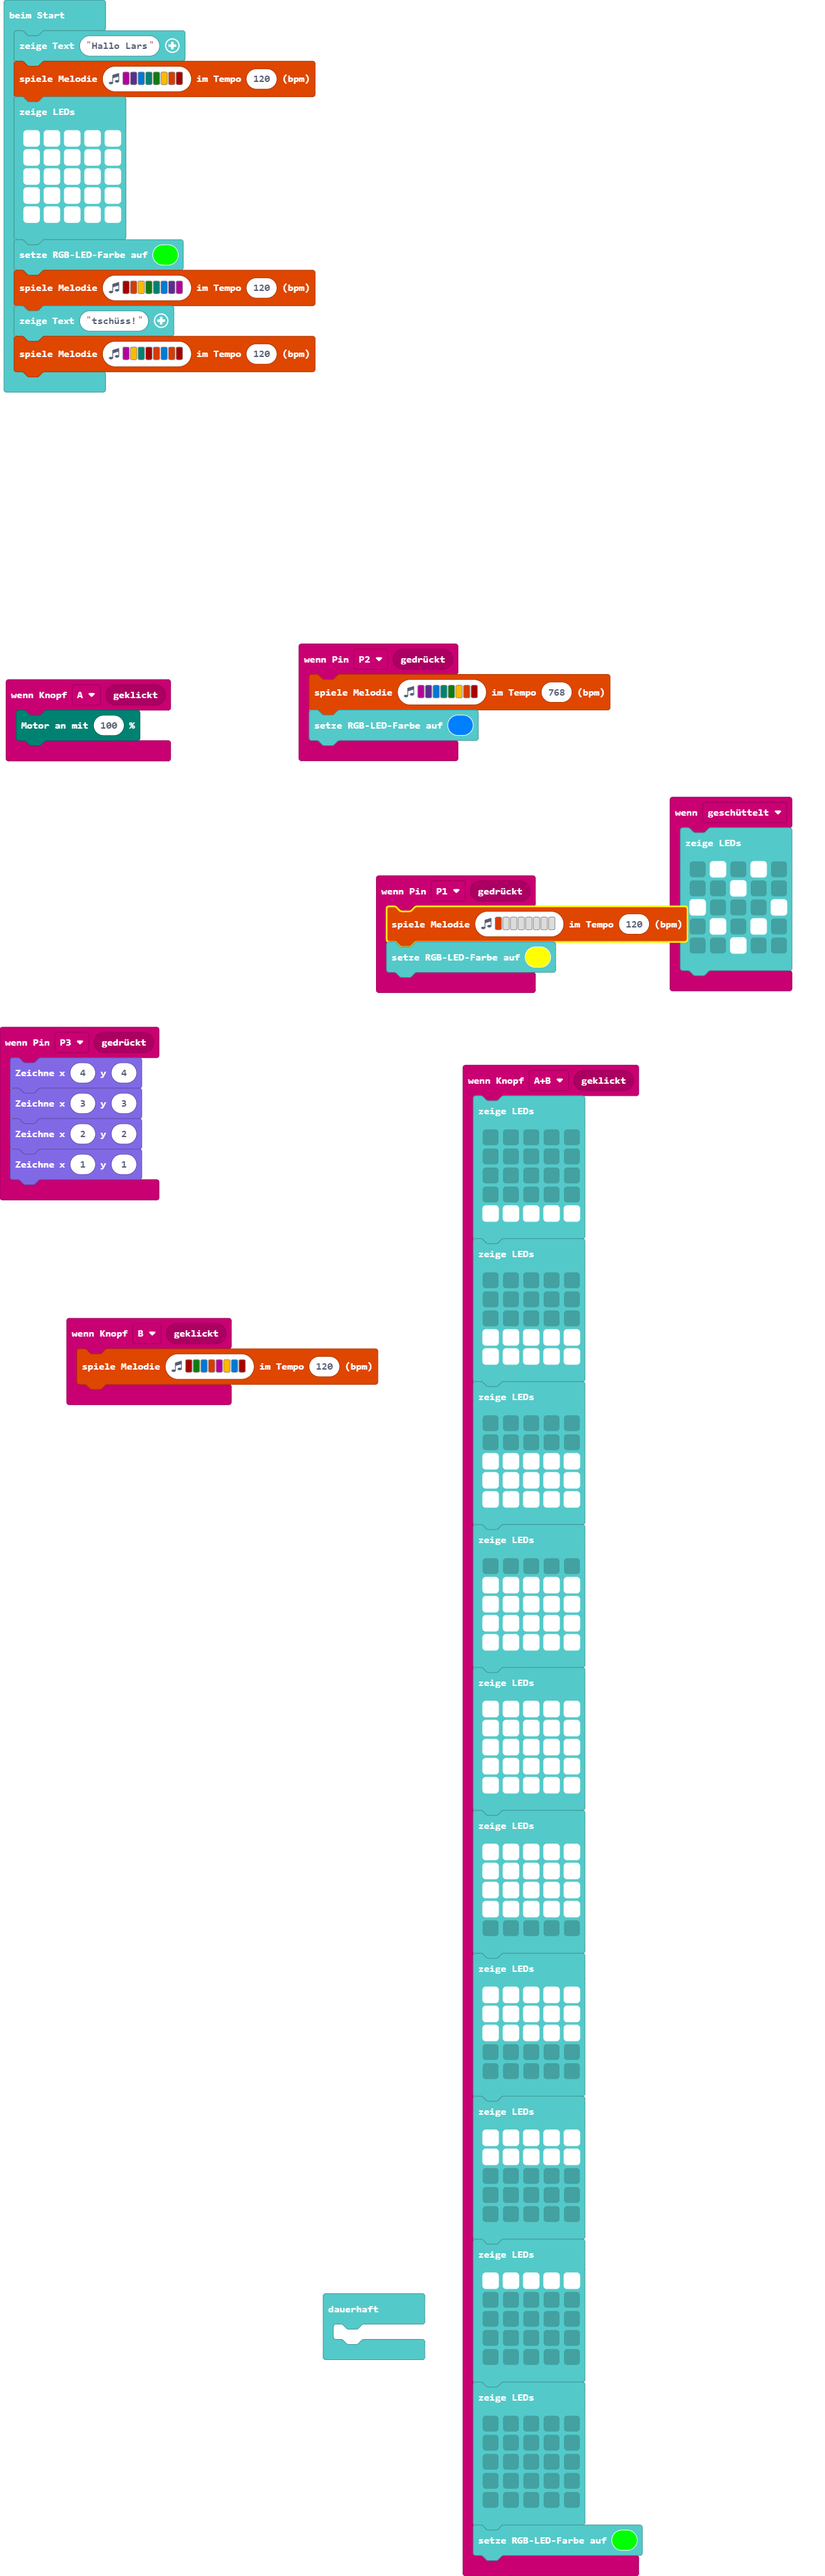
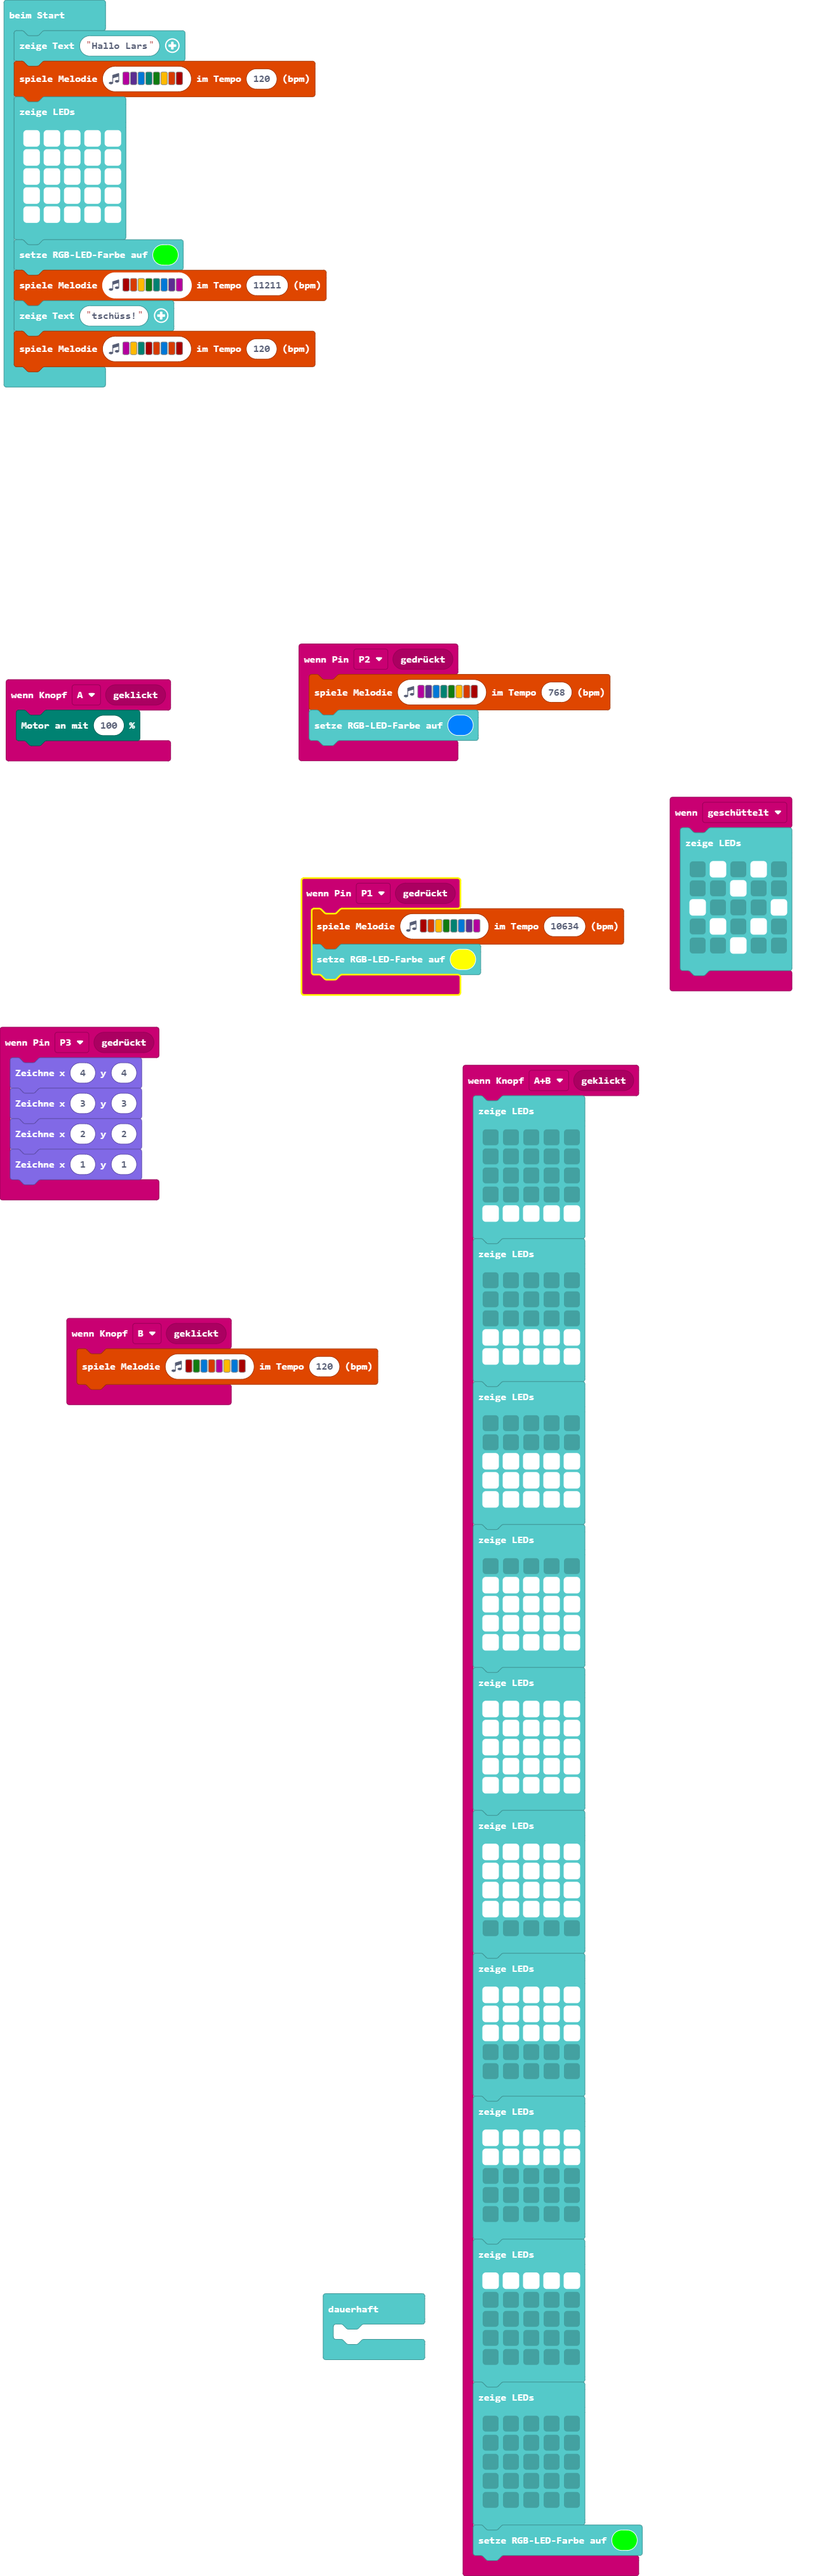
Aktualisiere main.blocks, main.ts

Changed region(s): [[0.3387, 0.3418, 0.8314, 0.4039], [0.0, 0.0932, 0.4003, 0.1554]]

diff --git a/main.ts b/main.ts
@@ -1,5 +1,5 @@
 input.onPinTouchEvent(TouchPin.P1, input.buttonEventDown(), function () {
-    music.playMelody("B - - - - - - - ", 120)
+    music.playMelody("C5 B A G F E D C ", 10634)
     basic.setLedColor(0xffff00)
 })
 input.onButtonEvent(Button.A, input.buttonEventClick(), function () {
@@ -110,7 +110,7 @@ basic.showLeds(`
     # # # # #
     `)
 basic.setLedColor(0x00ff00)
-music.playMelody("C5 B A G F E D C ", 120)
+music.playMelody("C5 B A G F E D C ", 11211)
 basic.showString("tschüss!")
 music.playMelody("C A F C5 B E B C5 ", 120)
 basic.forever(function () {
